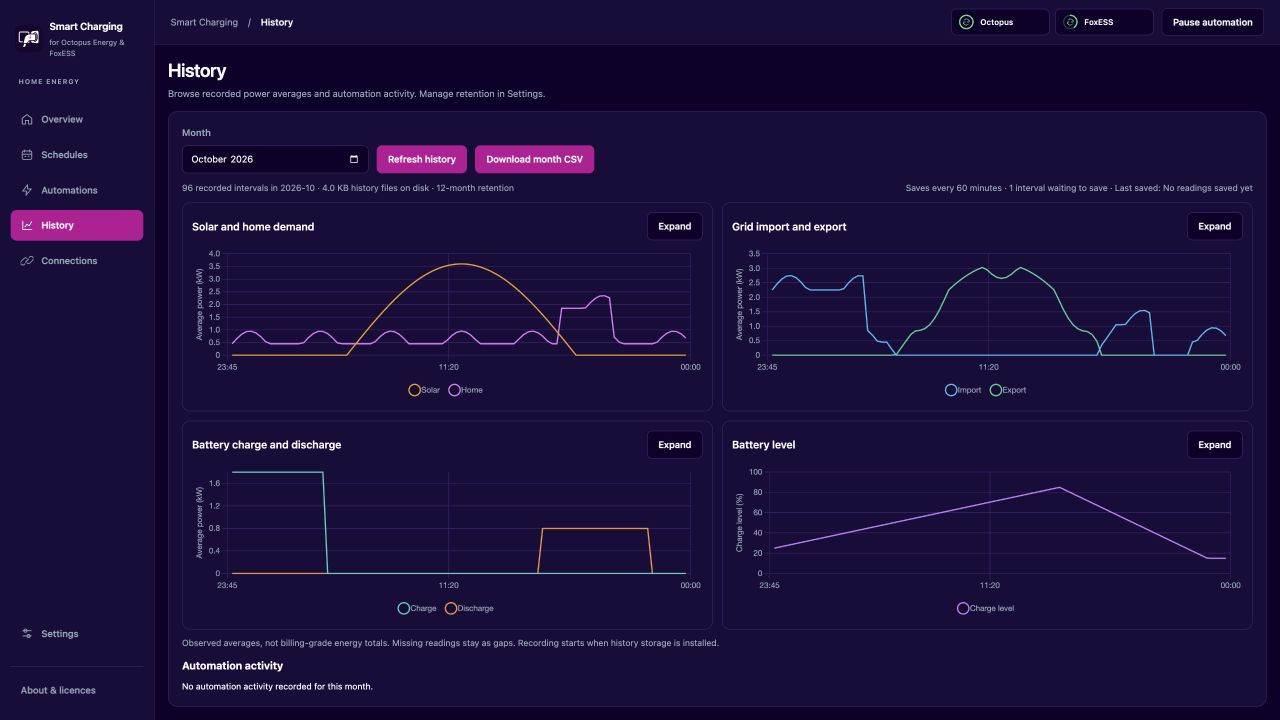
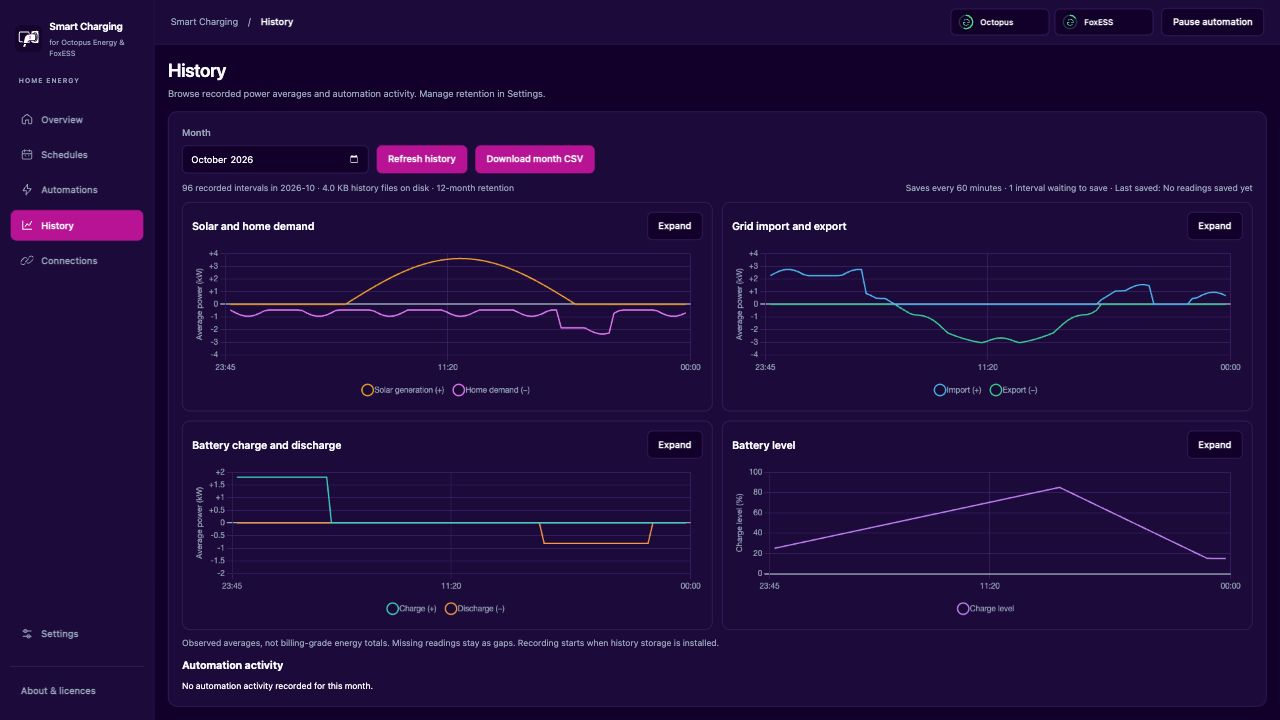
Show signed power directions in history charts for v2.0.3

diff --git a/dev/history.js b/dev/history.js
@@ -1,9 +1,9 @@
 /* Copyright (C) 2026 SCKC. GPL-3.0-or-later. History overview and expanded charts. */
 (() => {
   const groups = [
-    {id:'home',title:'Solar and home demand',unit:'kW',fields:[['pvPower','Solar','#f59e0b'],['loadsPower','Home','#e879f9']]},
-    {id:'grid',title:'Grid import and export',unit:'kW',fields:[['gridConsumptionPower','Import','#38bdf8'],['feedinPower','Export','#34d399']]},
-    {id:'battery',title:'Battery charge and discharge',unit:'kW',fields:[['batChargePower','Charge','#2dd4bf'],['batDischargePower','Discharge','#fb923c']]},
+    {id:'home',title:'Solar and home demand',unit:'kW',fields:[['pvPower','Solar generation (+)','#f59e0b',1],['loadsPower','Home demand (−)','#e879f9',-1]]},
+    {id:'grid',title:'Grid import and export',unit:'kW',fields:[['gridConsumptionPower','Import (+)','#38bdf8',1],['feedinPower','Export (−)','#34d399',-1]]},
+    {id:'battery',title:'Battery charge and discharge',unit:'kW',fields:[['batChargePower','Charge (+)','#2dd4bf',1],['batDischargePower','Discharge (−)','#fb923c',-1]]},
     {id:'soc',title:'Battery level',unit:'%',fields:[['SoC','Charge level','#c084fc']]}
   ];
   window.installHistoryView = (panel, {piEdition,isVisible}) => {
@@ -54,12 +54,17 @@
       const maximum=times.length?Math.min(end,times.at(-1)+900000):end;
       const ticks=[];
       if(times.length)for(let at=times[0];at<=times.at(-1);at+=900000)ticks.push(at);
-      const datasets=group.fields.map(([field,label,color])=>({label,borderColor:color,borderWidth:2,pointRadius:ticks.length<3?3:0,spanGaps:false,data:ticks.map(at=>{const value=byTime.get(at)?.[field];return {x:at,y:typeof value==='number' && Number.isFinite(value)?value:null};})}));
+      // Directional archives retain non-negative magnitudes. Apply chart signs only here;
+      // CSV export, stored readings, and scheduler telemetry keep their original values.
+      const datasets=group.fields.map(([field,label,color,direction=1])=>({label,borderColor:color,borderWidth:2,pointRadius:ticks.length<3?3:0,spanGaps:false,data:ticks.map(at=>{const value=byTime.get(at)?.[field];return {x:at,y:typeof value==='number' && Number.isFinite(value)?(value===0?0:value*direction):null};})}));
       const style=getComputedStyle(document.documentElement),muted=style.getPropertyValue('--text-muted');
+      const signed=group.unit==='kW';
+      const extent=Math.max(0.1,...datasets.flatMap(series=>series.data.map(point=>Math.abs(point.y ?? 0))));
+      const signedValue=value=>`${value>0?'+':value<0?'−':''}${Math.abs(value).toFixed(2)}`;
       return {type:'line',data:{datasets},options:{responsive:true,maintainAspectRatio:false,animation:false,parsing:false,
-        interaction:{mode:'index',intersect:false},plugins:{legend:{position:'bottom',labels:{color:muted,usePointStyle:true,boxWidth:8,padding:18}},tooltip:{callbacks:{title:items=>items.length?new Date(items[0].parsed.x).toLocaleString():'',label:item=>`${item.dataset.label}: ${item.parsed.y.toFixed(2)} ${group.unit}`}}},
+        interaction:{mode:'index',intersect:false},plugins:{legend:{position:'bottom',labels:{color:muted,usePointStyle:true,boxWidth:8,padding:18}},tooltip:{callbacks:{title:items=>items.length?new Date(items[0].parsed.x).toLocaleString():'',label:item=>`${item.dataset.label}: ${signed?signedValue(item.parsed.y):item.parsed.y.toFixed(2)} ${group.unit}`}}},
         scales:{x:{type:'linear',min:minimum,max:maximum,grid:{color:style.getPropertyValue('--border')},ticks:{maxTicksLimit:6,color:muted,callback:value=>maximum-minimum<=3*86400000?new Date(value).toLocaleTimeString(undefined,{hour:'2-digit',minute:'2-digit'}):new Date(value).toLocaleDateString(undefined,{day:'numeric',month:'short'})}},
-          y:{beginAtZero:true,max:group.unit==='%'?100:undefined,title:{display:true,text:group.unit==='%'?'Charge level (%)':'Average power (kW)',color:muted},ticks:{color:muted},grid:{color:style.getPropertyValue('--border')}}}}};
+          y:{beginAtZero:true,min:signed?undefined:0,max:signed?undefined:100,suggestedMin:signed?-extent:undefined,suggestedMax:signed?extent:undefined,title:{display:true,text:signed?'Average power (kW)':'Charge level (%)',color:muted},ticks:{color:muted,callback:value=>signed&&value>0?`+${value}`:String(value)},grid:{color:context=>context.tick.value===0?muted:style.getPropertyValue('--border'),lineWidth:context=>context.tick.value===0?2:1}}}}};
     }
     function drawExpanded() {
       if(!expandedGroup || !data)return;

diff --git a/src/index.html b/src/index.html
@@ -26,12 +26,12 @@
     <meta name="apple-mobile-web-app-status-bar-style" content="default">
     <meta name="apple-mobile-web-app-title" content="Octopus FoxESS">
     <title>Smart Charging Detector</title>
-    <link rel="icon" href="./octopus-foxess.svg?v=2.0.2" type="image/svg+xml">
-    <link rel="apple-touch-icon" sizes="180x180" href="./icons/apple-touch-icon.png?v=2.0.2">
-    <link rel="manifest" href="./site.webmanifest?v=2.0.2">
+    <link rel="icon" href="./octopus-foxess.svg?v=2.0.3" type="image/svg+xml">
+    <link rel="apple-touch-icon" sizes="180x180" href="./icons/apple-touch-icon.png?v=2.0.3">
+    <link rel="manifest" href="./site.webmanifest?v=2.0.3">
     <script src="https://cdn.jsdelivr.net/npm/chart.js@4.4.9/dist/chart.umd.min.js" integrity="sha384-b0GXujLkk9eYYSmcSfoyZbfyElGAQnDyY0skCHSG6w3JgTMFnz11ggrTAr7seu9f" crossorigin="anonymous"></script>
     <script src="https://cdnjs.cloudflare.com/ajax/libs/crypto-js/4.1.1/crypto-js.min.js" integrity="sha384-S3wQ/l0OsbJoFeJC81UIr3JOlx/OzNJpRt1bV+yhpWQxPAahfpQtpxBSfn+Isslc" crossorigin="anonymous"></script>
-        <link rel="stylesheet" href="./styles.css?v=2.0.2">
+        <link rel="stylesheet" href="./styles.css?v=2.0.3">
 </head>
 <body>
 
@@ -621,7 +621,7 @@
 </div>
 
     </div> <div class="app-footer">
-        <div>Developer SCKC &middot; &copy; 2026 &middot; Build v2.0.2</div>
+        <div>Developer SCKC &middot; &copy; 2026 &middot; Build v2.0.3</div>
     </div>
 </div> 
 
@@ -645,7 +645,7 @@
         <h3 style="margin-top: 0; color: #0f172a; text-align: center;">About &amp; License</h3>
         
         <p style="color: #0f172a; font-weight: 700;">Intelligent Octopus Go &amp; FoxESS Smart Charging Detector</p>
-        <p style="color: #475569;">Version <span data-app-version>2.0.2</span> · Developer: SCKC<br>Copyright (C) 2026 SCKC · GPL-3.0-or-later</p>
+        <p style="color: #475569;">Version <span data-app-version>2.0.3</span> · Developer: SCKC<br>Copyright (C) 2026 SCKC · GPL-3.0-or-later</p>
         <p><a href="https://github.com/samuelkcc/octopus-foxess-smart-charging" target="_blank" rel="noopener noreferrer">Source code &amp; releases</a> · <a href="https://www.gnu.org/licenses/gpl-3.0.html" target="_blank" rel="noopener noreferrer">GNU GPL v3</a></p>
         <details><summary>Complete GNU General Public License</summary><pre style="white-space: pre-wrap; color: #475569; font-size: 0.75rem;">__FULL_LICENSE__</pre></details>
         <details><summary>Third-party acknowledgements &amp; licenses</summary><pre style="white-space: pre-wrap; color: #475569; font-size: 0.75rem;">__THIRD_PARTY_NOTICES__</pre></details>
@@ -838,7 +838,7 @@
     </div>
 </div>
 
-<script src="./app.js?v=2.0.2"></script>
+<script src="./app.js?v=2.0.3"></script>
 
 <div id="screen-saver-overlay" onclick="toggleScreenSaver()" style="display: none; position: fixed; inset: 0; width: 100%; height: 100%; background: #000; z-index: 100000; cursor: pointer;"></div>
 

diff --git a/RELEASE_NOTES.md b/RELEASE_NOTES.md
@@ -1,48 +1,32 @@
-# Smart Charging v2.0.2
+# Smart Charging v2.0.3
 
-This patch adds optional Safari compatibility to the standalone web edition.
+This patch makes power-flow direction clear in history charts.
 
 ## Changes
 
-- Setup and Settings include an Octopus connection selector.
-- The in-app guide includes **Copy relay code** and steps to update an existing deployment.
-- Compatibility mode sends Octopus sign-in, charging-window, account, and tariff requests through your own Google relay.
-- Direct connection remains the default for existing setups.
-- The selected method stays in saved browser setup and encrypted backups.
-- A capability check detects an old relay before forwarding Octopus credentials.
-- The updated relay restricts targets and methods and does not follow upstream redirects.
-- Octopus HTTP status and Retry-After values reach the existing browser rate-limit policy.
-- Pi and Windows retain their existing host transport.
+- Grid import appears above zero. Grid export appears below zero.
+- Solar generation appears above zero. Home demand appears below zero.
+- Battery charging appears above zero. Battery discharging appears below zero.
+- Legends and tooltips identify each direction with a sign.
+- Power charts show both sides of a clear zero line.
+- Expanded charts use the same directions and labels.
+- Battery level remains between 0% and 100%.
+- Saved history and CSV exports retain their original recorded magnitudes.
 
-## Update your Google relay
+## Update
 
-- Open your existing Apps Script project.
-- Replace its code with the code in the [web guide](https://github.com/samuelkcc/octopus-foxess-smart-charging/blob/v2.0.2/docs/WEB-GUIDE.md#create-the-relay).
-- Save the project.
-- Select **Deploy → Manage deployments → Edit → New version → Deploy**.
-- Keep the existing Web App URL.
-- In Smart Charging, open **Modify setup → 3. Google relay**.
-- Select **Safari compatibility — my Google relay**.
-- Select **Connect**.
+- On Pi, use **Update Raspberry Pi Edition** in native Configuration.
+- On Windows, replace the EXE with this release's portable app.
+- For the downloaded web edition, replace the HTML file.
+- For the hosted web edition, reload the page.
 
-Google processes Octopus credentials and data when this option is selected.
-Use only your own Google relay.
-Saving Apps Script source alone does not update the deployed Web App.
-
-## Documentation
-
-- The repository overview focuses on functions and setup. Version-specific changes stay on the release download pages.
-- The Safari setup image no longer includes viewport diagnostics or the local test strip.
-- Pi removal instructions explain the command, deleted local data, and retained inverter schedule.
+History charts are available on Pi and Windows hosts, including their mobile dashboard clients.
+This update does not require a Google relay change.
 
 ## Verification
 
-Removal instructions were checked against the script.
-The uninstaller was not executed.
-The full regression suite passes with mock upstream APIs.
-Tests cover relay redirects, Octopus GET/POST, old-code detection, real rate-limit propagation, and unchanged FoxESS command safeguards.
-No test sends a command to a live inverter.
-Safari received a readable HTTP 200 Octopus reply through the updated personal GAS deployment.
-An invalid demonstration key was rejected as expected.
-No real account credentials were used in that check.
-Native Windows execution of this patch remains a user check.
+Mock tests check source labels, signed values, measured zero, missing readings, percentage limits, expanded charts, and unchanged CSV exports.
+The full regression suite and Windows packaging checks pass.
+Browser checks cover the Pi dashboard, mobile chart expansion, and standalone web sign-in with mock services.
+No verification sends a command to a live inverter.
+Native Windows execution and installation on the user's Pi remain unverified for this patch.

diff --git a/CHANGELOG.md b/CHANGELOG.md
@@ -1,3 +1,36 @@
+# v2.0.3 — 2026-10-27
+
+This patch makes power-flow direction clear in history charts.
+
+## Changes
+
+- Grid import appears above zero. Grid export appears below zero.
+- Solar generation appears above zero. Home demand appears below zero.
+- Battery charging appears above zero. Battery discharging appears below zero.
+- Legends and tooltips identify each direction with a sign.
+- Power charts show both sides of a clear zero line.
+- Expanded charts use the same directions and labels.
+- Battery level remains between 0% and 100%.
+- Saved history and CSV exports retain their original recorded magnitudes.
+
+## Update
+
+- On Pi, use **Update Raspberry Pi Edition** in native Configuration.
+- On Windows, replace the EXE with this release's portable app.
+- For the downloaded web edition, replace the HTML file.
+- For the hosted web edition, reload the page.
+
+History charts are available on Pi and Windows hosts, including their mobile dashboard clients.
+This update does not require a Google relay change.
+
+## Verification
+
+Mock tests check source labels, signed values, measured zero, missing readings, percentage limits, expanded charts, and unchanged CSV exports.
+The full regression suite and Windows packaging checks pass.
+Browser checks cover the Pi dashboard, mobile chart expansion, and standalone web sign-in with mock services.
+No verification sends a command to a live inverter.
+Native Windows execution and installation on the user's Pi remain unverified for this patch.
+
 # v2.0.2 — 2026-10-27
 
 This patch adds optional Safari compatibility to the standalone web edition.

diff --git a/docs/FEATURE-PARITY.md b/docs/FEATURE-PARITY.md
@@ -113,3 +113,15 @@ The personal deployment and downloadable relay source use that same code.
 All downloaded release assets matched the published checksums.
 The local distribution contains one HTML file and one Windows EXE.
 Interface images use dark appearance. The mobile montage was supplied by the project owner.
+
+## Version 2.0.3 history direction review
+
+- Power charts show positive and negative directions with a clear zero line.
+- Solar generation, grid import, and battery charging are positive.
+- Home demand, grid export, and battery discharging are negative.
+- Source fields remain paired with their original labels and colours.
+- Expanded charts use the same data and axis limits.
+- Battery level retains its 0–100% range.
+- Tests cover missing readings, measured zero, original records, and CSV magnitudes.
+- This presentation change does not modify telemetry, storage, authentication, or scheduler behaviour.
+- Native Windows execution and installation on the user's Pi remain unverified for this patch.

diff --git a/README.md b/README.md
@@ -231,6 +231,12 @@ The History page shows all measurements together and reports storage use.
 These are observed averages, not billing-grade energy totals.
 Missing readings stay as gaps.
 
+Power charts use positive and negative values to show direction.
+Solar generation, grid import, and battery charging appear above zero.
+Home demand, grid export, and battery discharging appear below zero.
+Battery level remains between 0% and 100%.
+CSV exports retain the original recorded magnitudes.
+
 - Retention defaults to **12 months**, with a configurable range of **1–24 months**.
 - Readings are buffered in memory and saved every **60 minutes** by default. A **30-minute** option is available.
 - Monthly archives are compressed. Unsaved readings can be lost after an unexpected power failure.

diff --git a/docs/screenshots/README.md b/docs/screenshots/README.md
@@ -1,6 +1,6 @@
 # Interface screenshots
 
-Updated on 27 October 2026 for version 2.0.2.
+Updated on 27 October 2026.
 
 - Interface screenshots use dark appearance.
 - Published images omit viewport diagnostics and local test overlays.
@@ -12,6 +12,7 @@ Updated on 27 October 2026 for version 2.0.2.
 - The preview cannot call the service or save account settings.
 - No live account configuration or desktop theme was changed for these images.
 - Desktop previews use 1920 × 1080 or 1280 × 720 layouts.
+- The History image shows signed power directions from version 2.0.3 with demonstration readings.
 - Screenshots contain no real account numbers, serial numbers, API keys, or remote keys.
 
 A screenshot demonstrates the interface, not verified inverter behaviour.
